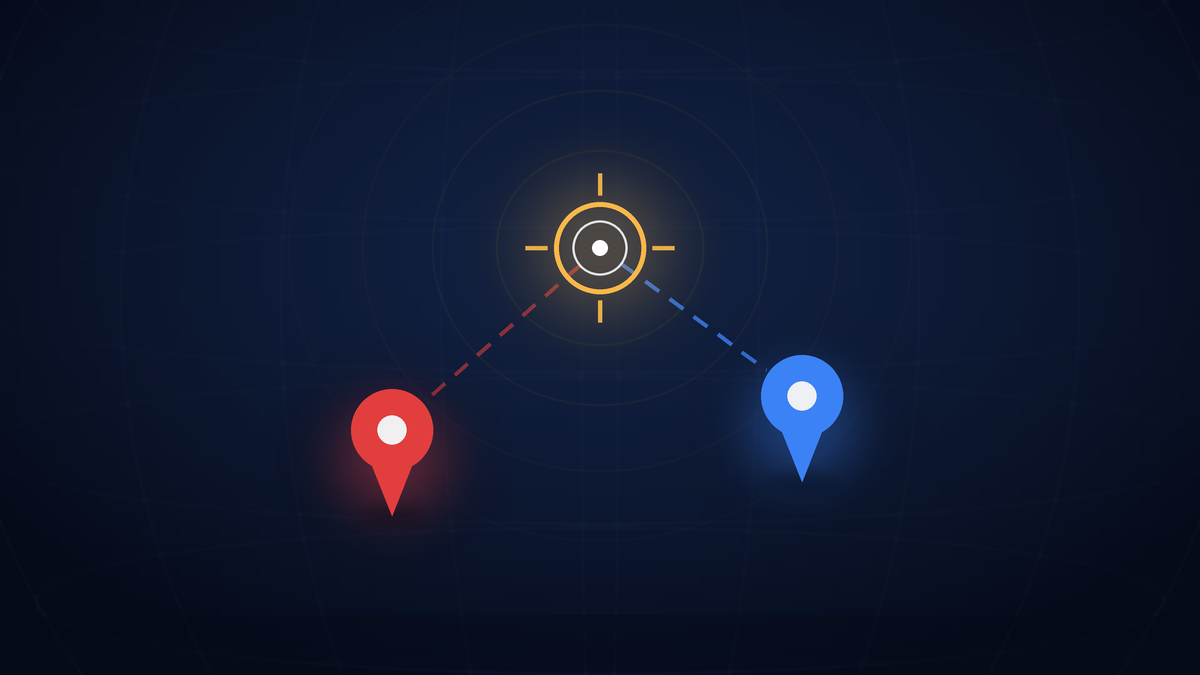
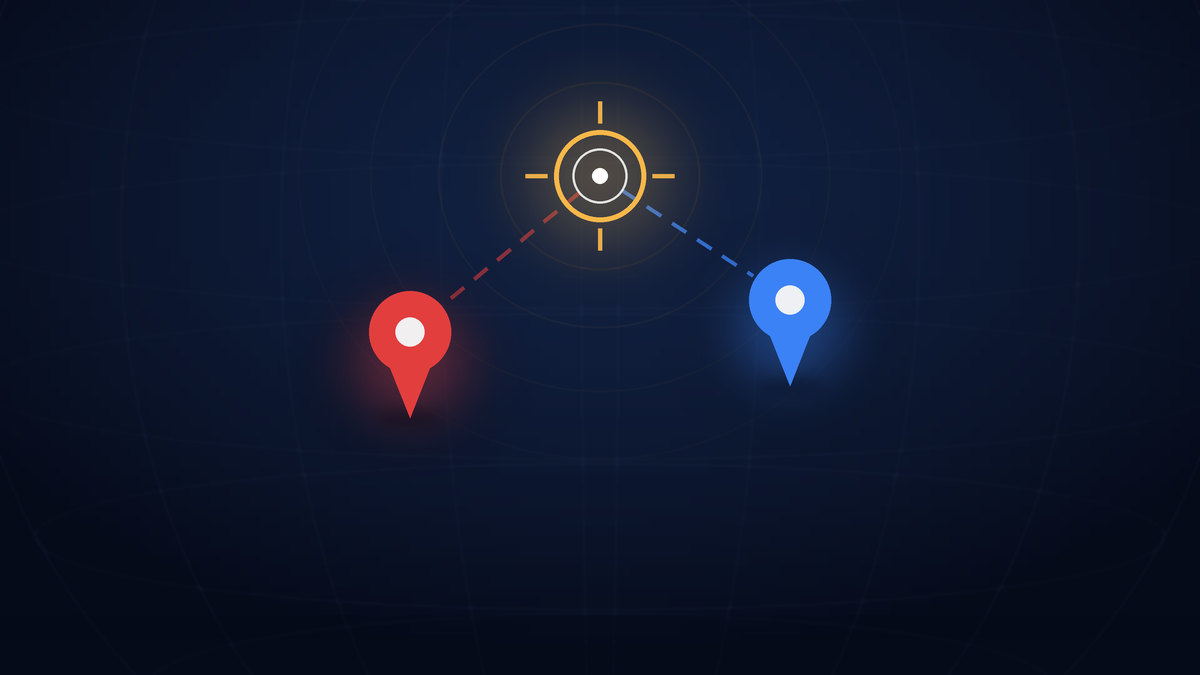
Closer hero: lift the composition clear of the tile title band
On a narrow hero tile the scrim and two lines of title cut across the two pins.
Moves the reticle, rings and both pins into the upper 55% so the whole figure
stays visible at every crop the hub renders.

diff --git a/scripts/generate-closer-hero.py b/scripts/generate-closer-hero.py
@@ -28,9 +28,9 @@ BLUE = (59, 130, 246)
 GOLD = (248, 184, 74)
 OUT = 'public/quiz-heroes/closer.png'
 
-TARGET = (600, 248)
-PIN_A = (392, 430)          # the farther one
-PIN_B = (802, 396)          # the nearer one
+TARGET = (600, 176)
+PIN_A = (410, 332)          # the farther one
+PIN_B = (790, 300)          # the nearer one
 
 
 def field():
@@ -38,7 +38,7 @@ def field():
     corners, so the bottom stays dark under the tile's title scrim."""
     sm = Image.new('RGB', (120, 68))
     px = sm.load()
-    cx, cy = 0.50 * 120, 0.37 * 68
+    cx, cy = 0.50 * 120, 0.30 * 68
     for y in range(68):
         for x in range(120):
             d = math.hypot((x - cx) / 120, (y - cy) / 68 * 0.92) / 0.62
@@ -52,7 +52,7 @@ def graticule(img):
     texture rather than as lines competing with the pins."""
     lay = Image.new('RGBA', img.size, (0, 0, 0, 0))
     d = ImageDraw.Draw(lay)
-    gx, gy, R = 600 * SS, 300 * SS, 640 * SS
+    gx, gy, R = 600 * SS, 236 * SS, 640 * SS
     ink = (120, 170, 255)
     for i in range(-4, 5):                       # parallels
         yy = gy + i * R * 0.235
@@ -70,7 +70,7 @@ def rings(img):
     lay = Image.new('RGBA', img.size, (0, 0, 0, 0))
     d = ImageDraw.Draw(lay)
     tx, ty = TARGET[0] * SS, TARGET[1] * SS
-    for r, a in ((104, 46), (168, 32), (238, 20), (312, 12)):
+    for r, a in ((100, 46), (162, 32), (230, 20), (302, 12)):
         rr = r * SS
         d.ellipse([tx - rr, ty - rr * 0.94, tx + rr, ty + rr * 0.94],
                   outline=GOLD + (a,), width=int(1.8 * SS))
